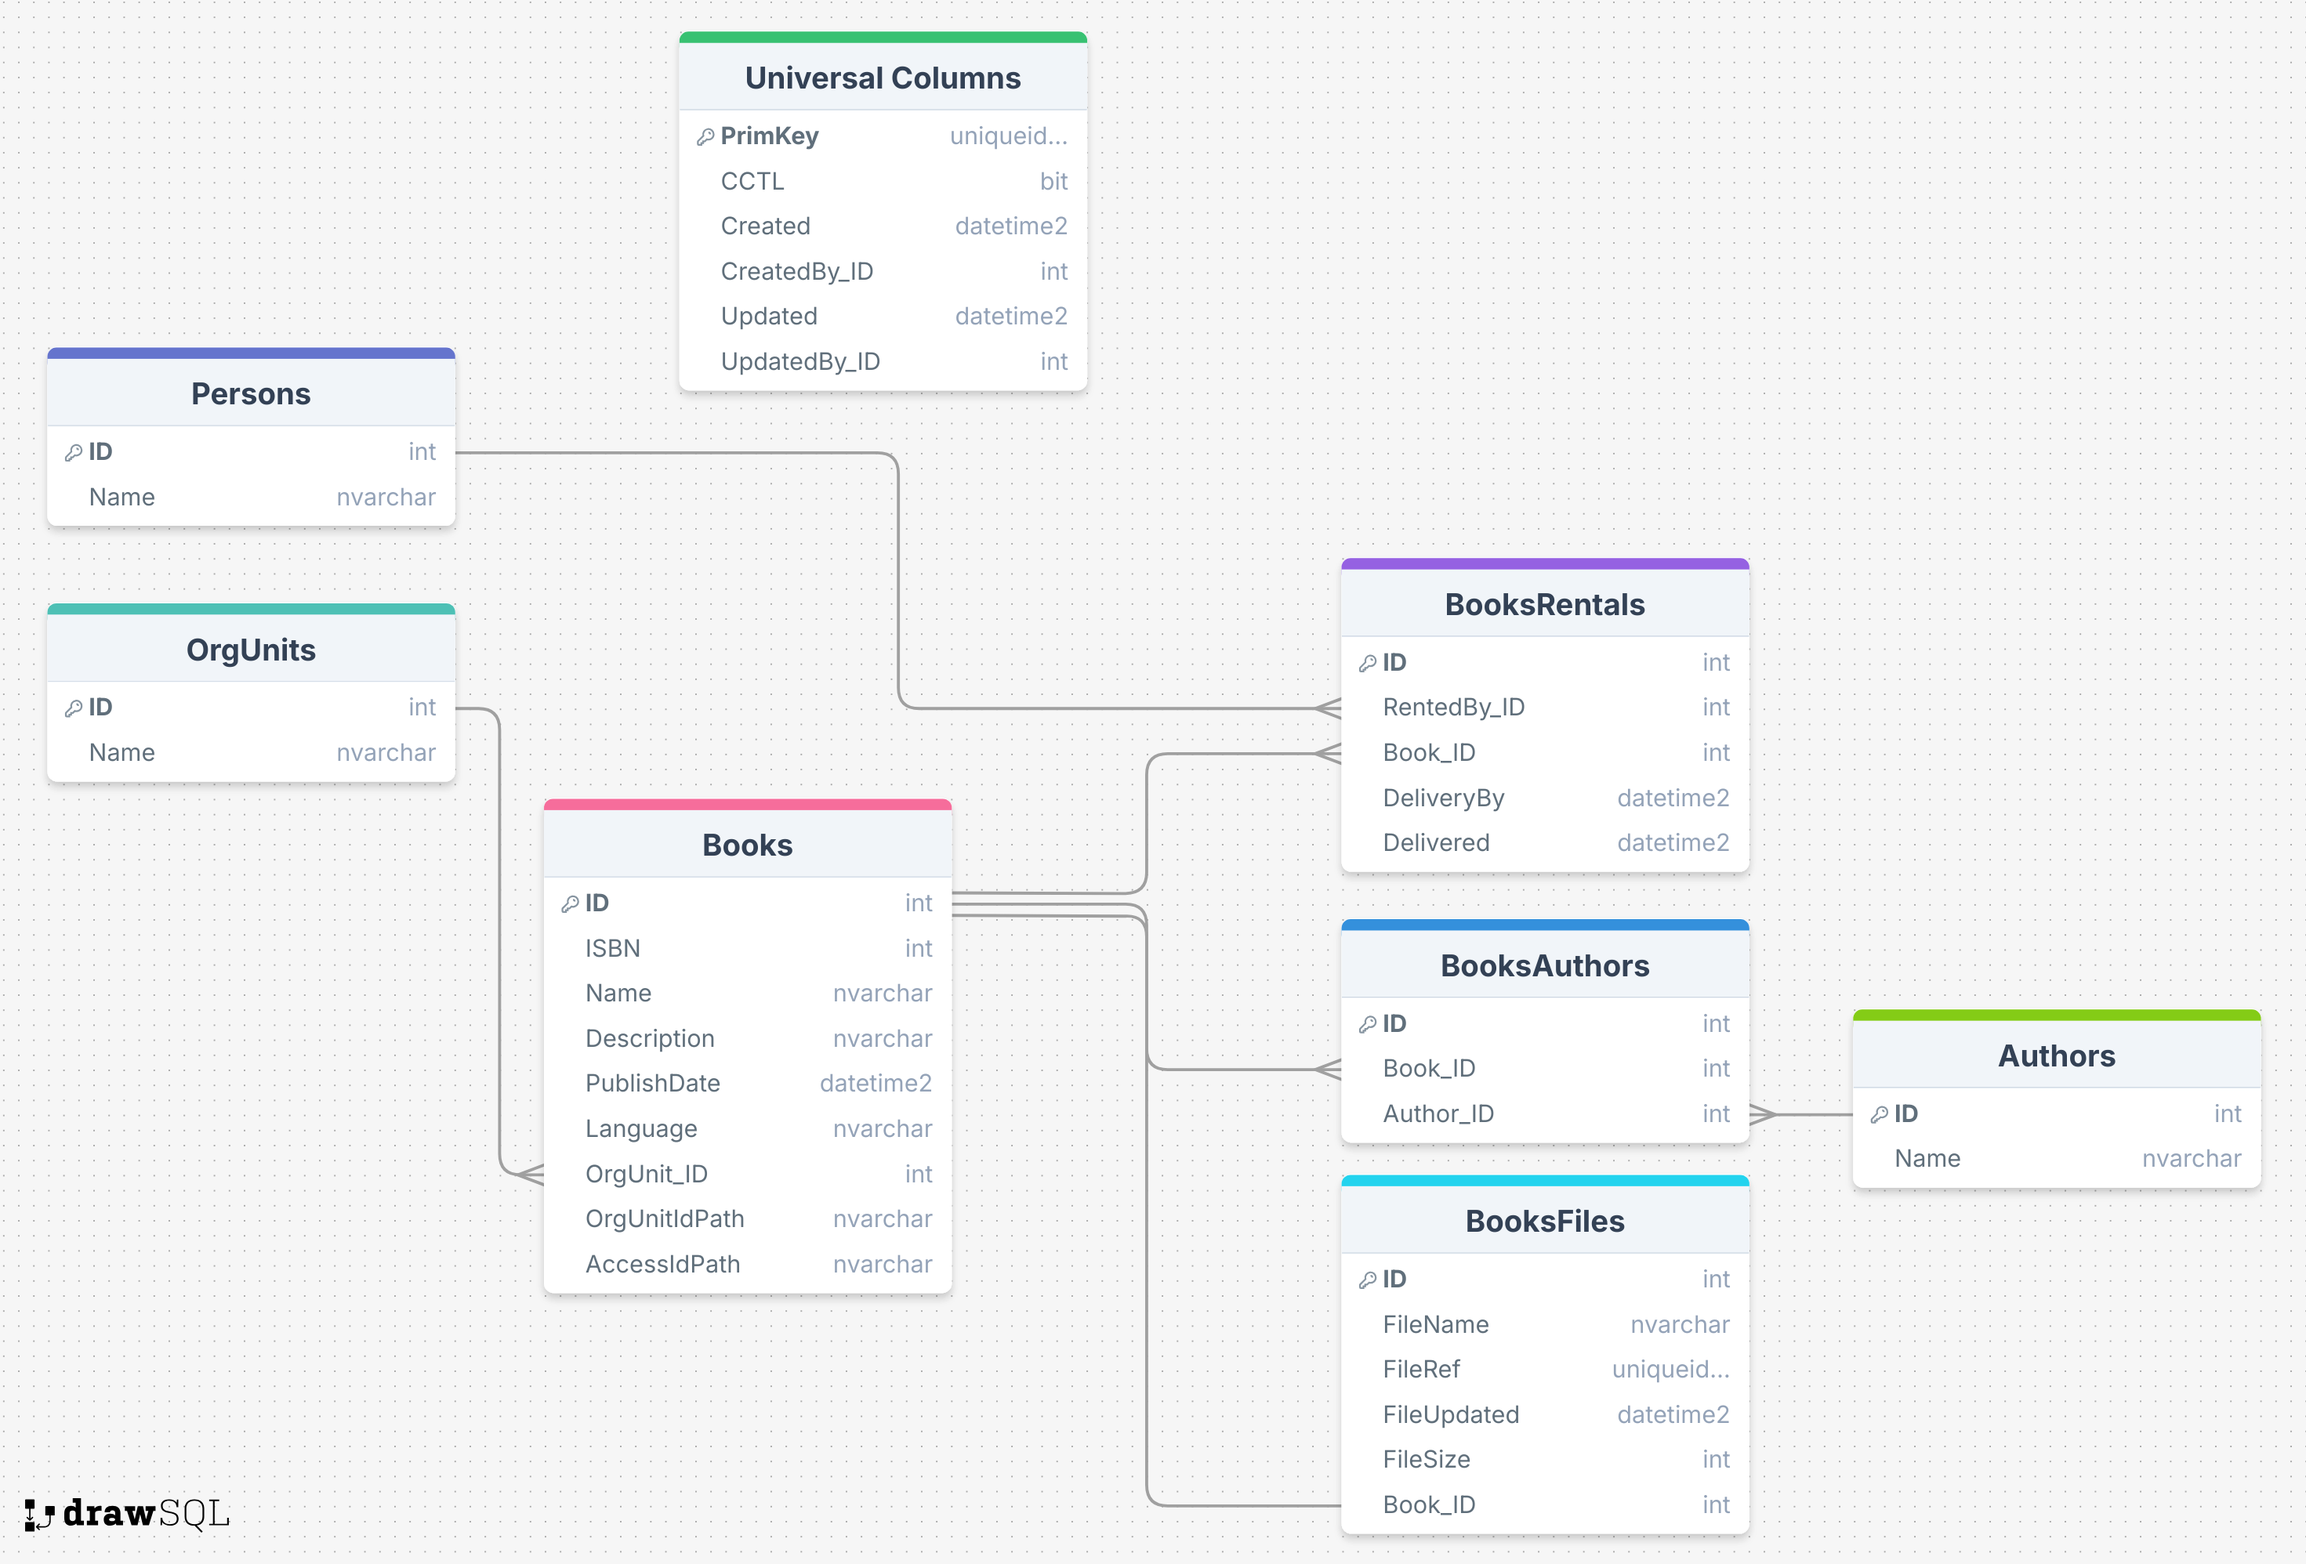
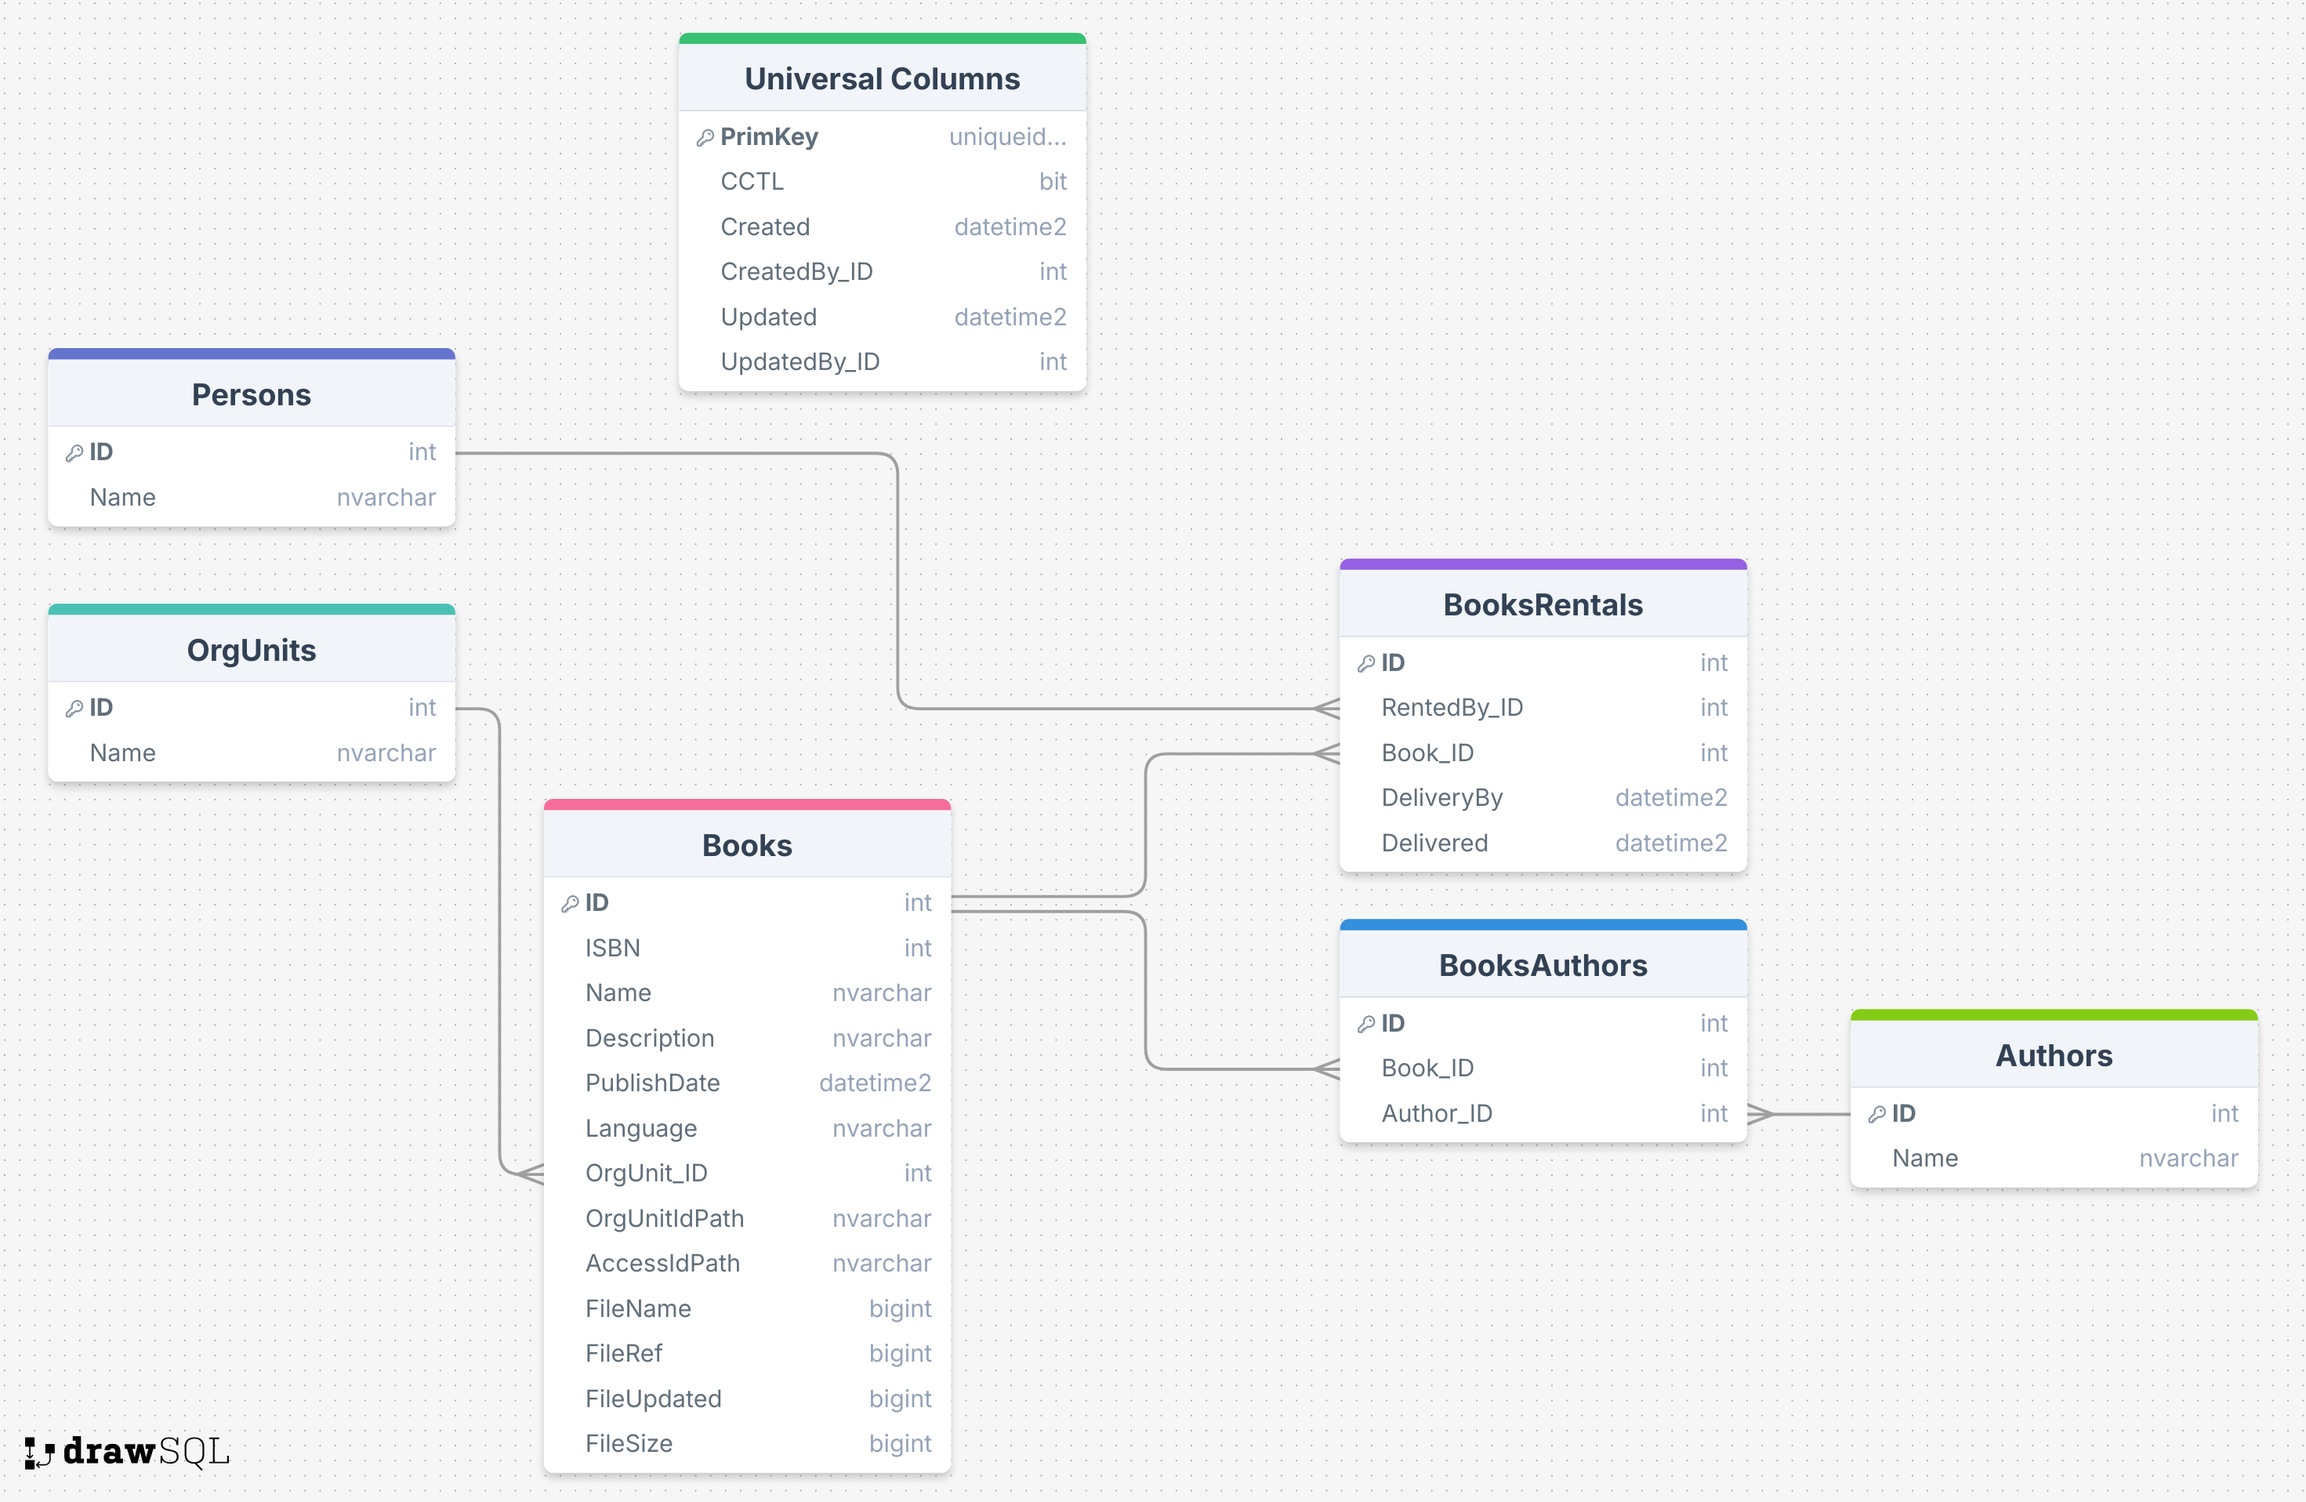
removed BooksFiles since files would be 1:1 relation

diff --git a/Planning.md b/Planning.md
@@ -34,10 +34,6 @@ Målet med denne oppgaven er å utvikle et biblioteksystem for en skole der lær
        - ITrig: Standard sjekk på tilganger og at boken ikke er utlånt
        - UTrig: Standard sjekk på tilganger og at bruker har lånt boken
        - DTrig: Ingen sletting skal skje grunnet historikk
-     - BooksFiles
-       - ITrig: Standard sjekk på tilganger og at du er bibliotekar
-       - UTrig: Standard sjekk på tilganger og at du er bibliotekar
-       - DTrig: Standard sjekk på tilganger og at du er bibliotekar
      - BooksAuthors
        - ITrig: Standard sjekk på tilganger og at du er biliotekar
        - UTrig: Standard sjekk på tilganger og at du er biliotekar
@@ -47,7 +43,7 @@ Målet med denne oppgaven er å utvikle et biblioteksystem for en skole der lær
        - UTrig: Standard sjekk på tilganger og at du er bibliotekar
        - DTrig: Standard sjekk på tilganger og at du er bibliotekar
    - Views
-     - aviw_Books for å joine frem metadata, som f.eks forfatter og eventuelle filer som medhører.
+     - aviw_Books for å joine frem metadata, som f.eks forfatter.
      - aviw_BooksRentals for å joine frem metadata, som f.eks den som låner og hvilken bok det er.
    - Procedures
      - astp_BorrowBook
@@ -67,21 +63,20 @@ Målet med denne oppgaven er å utvikle et biblioteksystem for en skole der lær
 ### Data model:
 ![Data model](images/Planning/datamodel.png)
 
-- Universal Columns: Standard kolonner som kommer i alle Omega365 CTP tabeller.
-- Persons: en system tabell som kommer ferdig definert i et Omega365 instans, har en rad per bruker i systemet og lagrer diverse metadata som navn, epost etc.
-- OrgUnits: en system tabell som kommer ferdig definert i et Omega365 instans, hjelper med tilgangsfordeling ved bruk av trestruktur.
-- Authors: denne tabellen oppbevarer alle forfattere som finnes i systemet.
-- Books: denne tabellen oppbevarer alle bøkene som finnes i systemet med diverse metadata.
-- BooksRentals: denne tabellen er en historikk tabell som oppbevarer alle lån, med Foreign Key til Persons og Books.
-- BooksAuthors: denne tabellen linker sammen Books og Authors slik at en bok kan ha flere forfattere.
-- BooksFiles: her oppbevares bildet som tilhører boka, tanken er en 1:1 relasjon slik at hver bok bare har ett bilde.
+- **Universal Columns**: Standard kolonner som kommer i alle Omega365 CTP tabeller.
+- **Persons**: en system tabell som kommer ferdig definert i et Omega365 instans, har en rad per bruker i systemet og lagrer diverse metadata som navn, epost etc.
+- **OrgUnits**: en system tabell som kommer ferdig definert i et Omega365 instans, hjelper med tilgangsfordeling ved bruk av trestruktur.
+- **Authors**: denne tabellen oppbevarer alle forfattere som finnes i systemet.
+- **Books**: denne tabellen oppbevarer alle bøkene som finnes i systemet med diverse metadata.
+- **BooksRentals**: denne tabellen er en historikk tabell som oppbevarer alle lån, med Foreign Key til Persons og Books.
+- **BooksAuthors**: denne tabellen linker sammen Books og Authors slik at en bok kan ha flere forfattere.
 
 ### Grov skisse:
 ![Grov skisse](images/Planning/Book%20Rental%20System.png)
 
 - bildet på bunn venstre er admin skjermbildet for bibliotekarer som lar deg legge til, redigere, og slette bøker.
 - bildet til høyre for admin bildet er bildet som en vanlig bruker vil bruke der de kan søke opp bøker og låne dem. Her vises status på boken.
-- Bildet på topp er skjermbildet som viser brukeren sine lånte bøker, med mulighet for å utvide lånet eller levere inn.
+- bildet på topp er skjermbildet som viser brukeren sine lånte bøker, med mulighet for å utvide lånet eller levere inn.
 ## Tidsskjema
 
 <details open>
@@ -169,10 +164,10 @@ Målet med denne oppgaven er å utvikle et biblioteksystem for en skole der lær
 
 ## Kostnader:
 - Timerate lærling: 155,-
-  - Estimert total pris lærling: 6 arbeidsdager * 7.5 timer * 155 = 8137.50,-
+  - Estimert total pris lærling: 6 arbeidsdager * 7.5 timer * 155 = 6 975,-
 - Basic Omega 365 Instans per måned:
-  - Hosting: 8000,-
-  - Lisens: 25000,-
+  - Hosting: 8 000,-
+  - Lisens: 25 000,-
   - Kost per bruker: 380,-
 - Estimert total pris: 39 975,- + 380 * antall brukere
 
